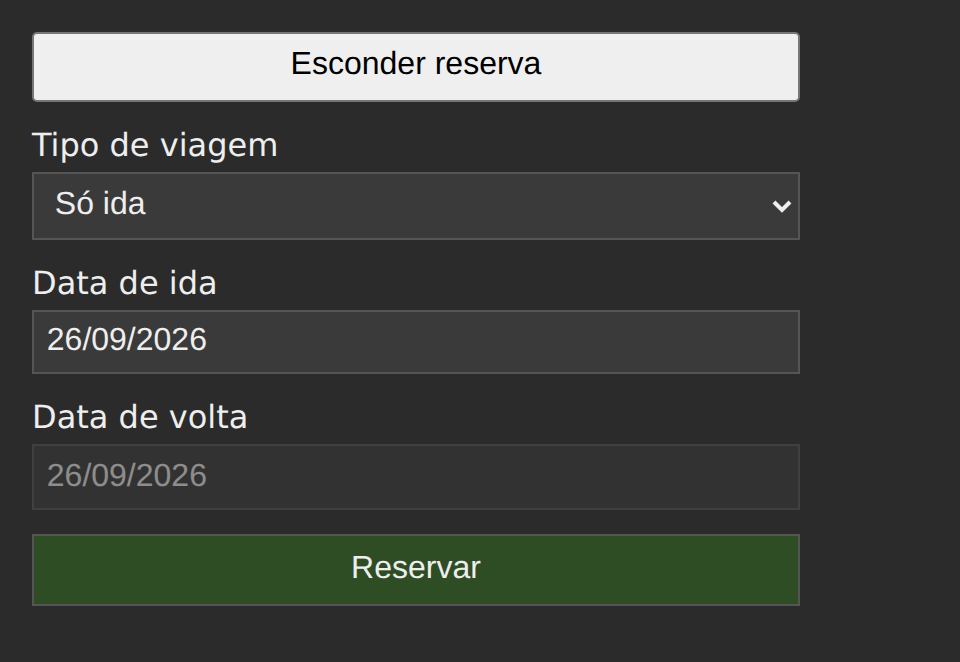
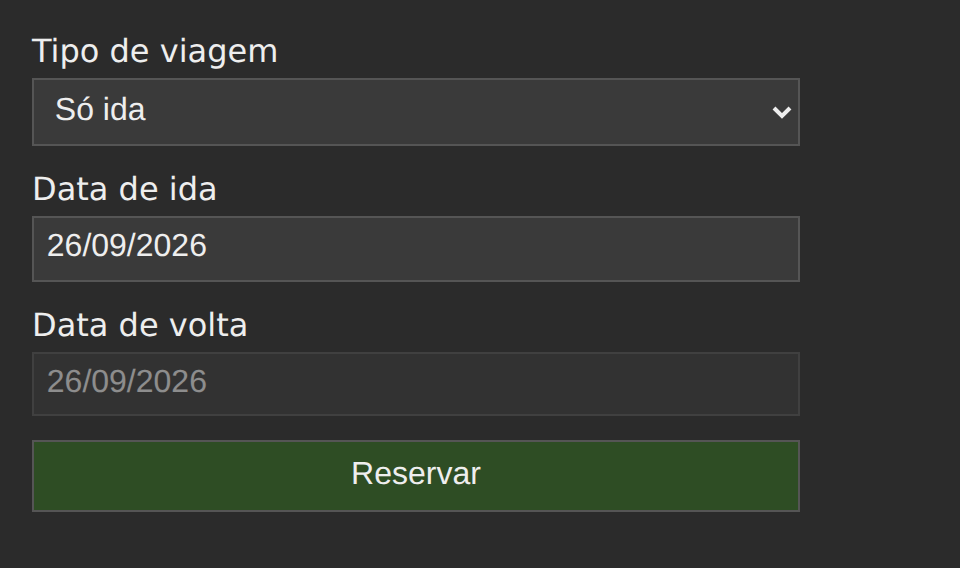
Hospeda a Reserva de passagem no Web Component pela página comum
A Reserva de passagem no Web Component ainda traz a página com o botão
"Esconder reserva"/"Mostrar reserva", um segundo elemento que só existe
para o teste de conformidade tirar o formulário da página, e por isso
falha nas verificações de "Limpeza ao sair da tela", que desde "Confere
a limpeza ao sair da tela pela rota da página, sem botão" saem e voltam
pela rota do hash de implementacoes/pagina.ts (ADR 0043).

A página sai, e fica o par montar e desmontar no idioma da tecnologia: o
createElement e o append do formulário no contêiner, e o remove(), que
dispara o disconnectedCallback. O index.html passa a trazer o
contêiner #raiz com a classe do layout, que a página montava. A limpeza
ao sair da tela, no disconnectedCallback, não muda: é o que se compara.

Conferido com npm run conformidade -- formulario/web-component (22
verificações ok) e com as capturas regeradas: as 6 cenas saem sem o
botão, e ficam diferentes das outras tecnologias da Reserva de passagem
até o commit de cada uma.

Changed region(s): [[0.0312, 0.0299, 0.8438, 0.9278], [0.8125, 0.2993, 0.8438, 0.3292]]

diff --git a/implementacoes/formulario/web-component/src/main.ts b/implementacoes/formulario/web-component/src/main.ts
@@ -8,6 +8,7 @@ import {
   hoje,
   type TipoDeViagem,
 } from "../../dominio";
+import { hospedar } from "../../../pagina";
 import "../../estilo.css";
 
 const modelo = /* HTML */ `
@@ -138,37 +139,10 @@ class FormularioDeCompra extends HTMLElement {
   }
 }
 
-// A página: o botão que tira o formulário da página e o põe de volta.
-class ReservaDePassagem extends HTMLElement {
-  private formulario?: FormularioDeCompra;
-
-  connectedCallback() {
-    this.innerHTML = /* HTML */ `
-      <main class="reserva">
-        <button type="button" class="alternar">Esconder reserva</button>
-      </main>
-    `;
-    const principal = this.querySelector("main")!;
-    const alternar = this.querySelector<HTMLButtonElement>(".alternar")!;
-    const mostrar = () => {
-      this.formulario = document.createElement(
-        "formulario-de-compra",
-      ) as FormularioDeCompra;
-      principal.append(this.formulario);
-      alternar.textContent = "Esconder reserva";
-    };
-    alternar.addEventListener("click", () => {
-      if (this.formulario) {
-        this.formulario.remove();
-        this.formulario = undefined;
-        alternar.textContent = "Mostrar reserva";
-      } else {
-        mostrar();
-      }
-    });
-    mostrar();
-  }
-}
-
 customElements.define("formulario-de-compra", FormularioDeCompra);
-customElements.define("reserva-de-passagem", ReservaDePassagem);
+
+hospedar((conteiner) => {
+  const formulario = document.createElement("formulario-de-compra");
+  conteiner.append(formulario);
+  return () => formulario.remove();
+});

diff --git a/implementacoes/formulario/web-component/index.html b/implementacoes/formulario/web-component/index.html
@@ -6,7 +6,7 @@
     <title>Formulário com Web Component</title>
   </head>
   <body>
-    <reserva-de-passagem></reserva-de-passagem>
+    <main id="raiz" class="reserva"></main>
     <script type="module" src="/src/main.ts"></script>
   </body>
 </html>
